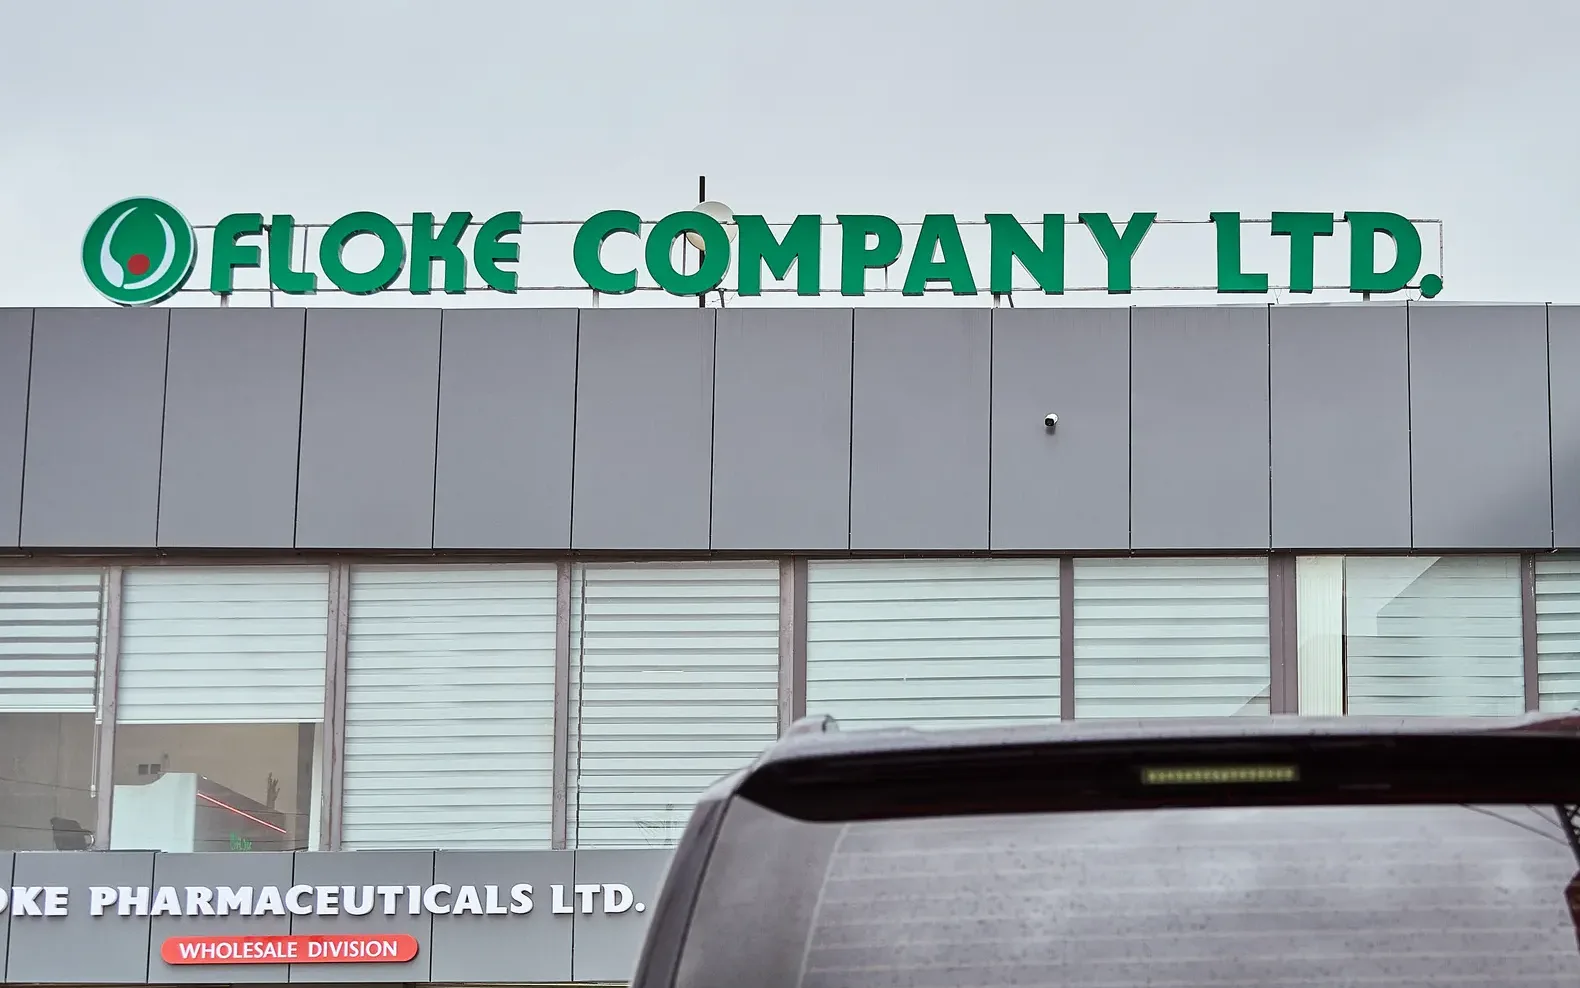
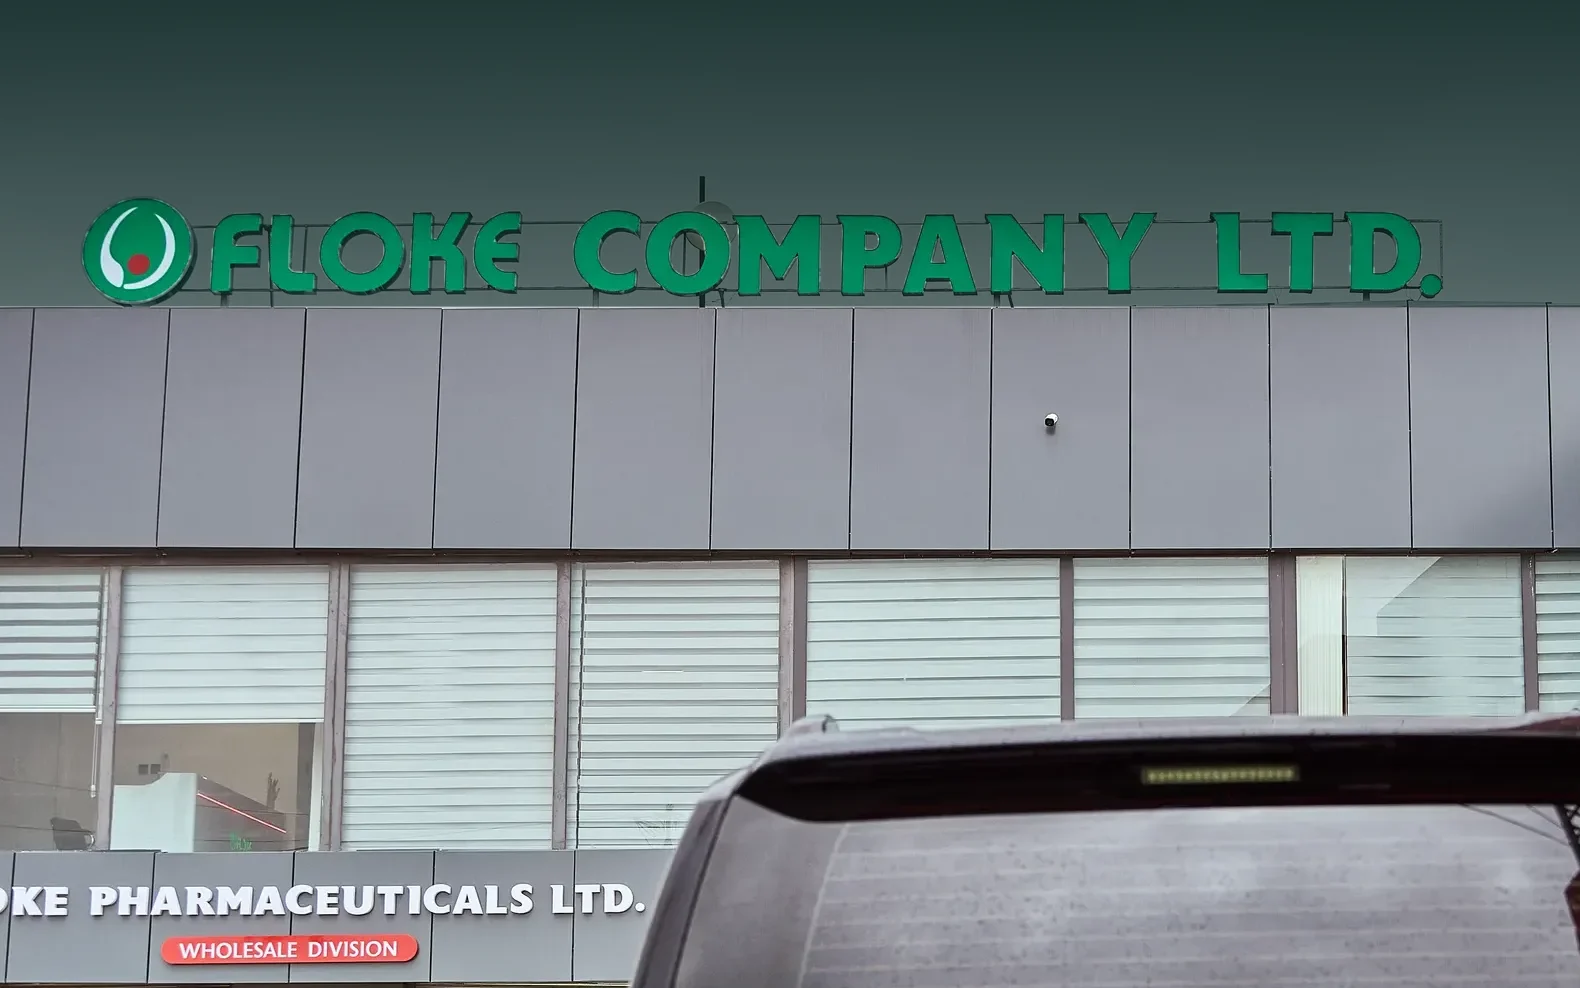
Hero: TE7 ultrasound cut-out, old-site button colours, building blended in
- Hero visual: the Mindray TE7 ultrasound, cut out of its white background
  with a soft matte (no hard edges), floating on the hero over a soft brand
  glow; the cut-off wall-mount arm fades away. Replaces the defibrillator panel.
  Sized from screen height so the partner band stays on screen (1024 to 2560).
- Buttons as on the old site: vivid green Explore Solutions and red Contact Us.
  New cta green #15843E (old #1A9C4B deepened just enough for AA with white
  text) for primary buttons across the public site, and a red button variant.
- Building blends into the background: the photo's bright sky is toned into the
  deep brand green with the sign letters kept at full colour, plus a soft edge
  vignette and a lighter shade over the sign.

Claude-Session: https://claude.ai/code/session_01T2EB6aVSqW4Z5TaQQTowq3

Changed region(s): [[0.0, 0.0, 1.0, 0.334]]

diff --git a/src/components/home/hero.tsx b/src/components/home/hero.tsx
@@ -7,8 +7,8 @@ import { Button } from '@/components/ui/button';
 /**
  * Hero: the head office and its FLOKE sign in natural colour, shaded in deep brand green behind the
  * text. Left: the company line from flokefama.com and its two actions (Explore Solutions → shop,
- * Contact Us → contact). Right: a Mindray BeneHeart D3 defibrillator on a soft white stage, the kind
- * of equipment Flokefama supplies as Mindray's official distributor (from tablet up, so on phones
+ * Contact Us → contact). Right: a Mindray TE7 ultrasound system, cut out and floating on the hero, the
+ * kind of equipment Flokefama supplies as Mindray's official distributor (from tablet up, so on phones
  * the partner band still shows on the first screen).
  * Bottom band: Our Partners & Clientele, visible without scrolling.
  */
@@ -24,9 +24,11 @@ export function Hero() {
         <div className="absolute inset-0 lg:inset-auto lg:left-1/2 lg:top-[calc(104px_-_max(100vw,160svh)*0.1203)] lg:aspect-[1580/988] lg:w-[max(100vw,160svh)] lg:-translate-x-1/2 lg:[mask-image:linear-gradient(#000_78%,transparent)]">
           <Image src="/images/hero-brand.webp" alt="" fill priority sizes="max(100vw, 160svh)" className="object-cover object-[8%_0%] md:object-[50%_0%]" />
         </div>
+        {/* The building melts into the dark green background (the photo's sky is already toned to it): edges fall away into shade */}
+        <div className="absolute inset-0 bg-[radial-gradient(140%_110%_at_50%_20%,transparent_55%,rgb(6_32_30/0.7)_100%)]" />
         {/* Deep green-navy shade behind the text and the lower photo; on desktop the sign's band stays clear */}
         <div className="absolute inset-0 bg-[linear-gradient(90deg,rgb(6_32_30/0.9)_0%,rgb(6_32_30/0.72)_42%,rgb(6_32_30/0.28)_75%,rgb(6_32_30/0.18)_100%)] lg:[mask-image:linear-gradient(180deg,transparent_calc(96px_+_max(100vw,160svh)*0.076),#000_calc(176px_+_max(100vw,160svh)*0.076))]" />
-        <div className="absolute inset-0 bg-[linear-gradient(180deg,rgb(6_32_30/0.35)_0%,transparent_25%,transparent_45%,rgb(6_32_30/0.85)_80%,rgb(6_32_30/0.95)_100%)] lg:bg-[linear-gradient(180deg,rgb(6_32_30/0.82)_0px,rgb(6_32_30/0.45)_80px,transparent_112px,transparent_45%,rgb(6_32_30/0.85)_80%,rgb(6_32_30/0.95)_100%)]" />
+        <div className="absolute inset-0 bg-[linear-gradient(180deg,rgb(6_32_30/0.35)_0%,transparent_25%,transparent_45%,rgb(6_32_30/0.85)_80%,rgb(6_32_30/0.95)_100%)] lg:bg-[linear-gradient(180deg,rgb(6_32_30/0.6)_0px,rgb(6_32_30/0.25)_88px,transparent_104px,rgb(6_32_30/0.12)_30%,rgb(6_32_30/0.3)_45%,rgb(6_32_30/0.85)_78%,rgb(6_32_30/0.97)_100%)]" />
       </div>
 
       <div className="mx-auto grid w-full max-w-[1280px] flex-1 grid-cols-1 items-center gap-8 px-5 pb-10 pt-28 md:gap-12 md:px-10 md:pt-32 lg:grid-cols-12 lg:items-start lg:gap-16 lg:pb-8 lg:pt-[calc(126px_+_max(100vw,160svh)*0.076)]">
@@ -45,21 +47,18 @@ export function Hero() {
             <Button asChild size="lg">
               <Link href="/products">Explore Solutions</Link>
             </Button>
-            <Button asChild variant="glass" size="lg">
+            <Button asChild variant="red" size="lg">
               <Link href="/contact">Contact Us</Link>
             </Button>
           </Reveal>
         </div>
         <Reveal delay={0.2} y={40} className="relative hidden sm:block lg:col-span-5">
-          <figure className="relative mx-auto w-full max-w-[300px] sm:max-w-[400px] lg:max-w-[min(480px,52svh)]">
-            {/* Soft green light behind the stage, so it sits in the scene rather than on top of it */}
-            <div aria-hidden className="absolute -inset-10 rounded-full bg-[radial-gradient(circle,rgb(52_161_116/0.28),transparent_65%)] blur-2xl" />
-            <div className="relative overflow-hidden rounded-[2rem] bg-[radial-gradient(circle_at_50%_42%,#ffffff_45%,#e8eef0_100%)] p-5 shadow-[0_40px_90px_-30px_rgb(0_0_0/0.65)] ring-1 ring-white/30 md:p-7">
-              {/* The photo's white background melts into the stage (multiply) */}
-              <Image src="/images/hero-defibrillator.webp" alt="Mindray BeneHeart D3 defibrillator and patient monitor" width={1068} height={893} priority sizes="(min-width: 1024px) 440px, 360px" className="relative h-auto w-full mix-blend-multiply" />
-            </div>
-            <figcaption className="absolute -bottom-5 left-1/2 flex -translate-x-1/2 items-center gap-2 whitespace-nowrap rounded-full bg-brand-800 px-4 py-2 text-[13px] font-medium text-white shadow-[0_12px_30px_-10px_rgb(0_0_0/0.5)] ring-1 ring-white/15">
-              <span className="size-2 rounded-full bg-brand-300" aria-hidden />
+          <figure className="relative mx-auto w-full max-w-[250px] sm:max-w-[320px] lg:max-w-[min(360px,calc(48svh_-_128px))]">
+            {/* Soft brand light behind the device, so it sits in the scene */}
+            <div aria-hidden className="absolute -inset-x-16 -inset-y-8 rounded-full bg-[radial-gradient(closest-side,rgb(52_161_116/0.32),rgb(47_128_183/0.12)_55%,transparent)] blur-2xl" />
+            <Image src="/images/hero-ultrasound.webp" alt="Mindray TE7 ultrasound system" width={718} height={954} priority sizes="(min-width: 1024px) 360px, 320px" className="relative h-auto w-full drop-shadow-[0_30px_45px_rgb(0_0_0/0.45)]" />
+            <figcaption className="relative mt-1 flex items-center justify-center gap-2 whitespace-nowrap text-[13px] font-medium text-white/80">
+              <span className="size-1.5 rounded-full bg-signal" aria-hidden />
               Official Mindray distributor in Ghana
             </figcaption>
           </figure>

diff --git a/src/components/auth/register-form.tsx b/src/components/auth/register-form.tsx
@@ -76,7 +76,7 @@ export function RegisterForm({ onSignIn }: { onSignIn: () => void }) {
       <button
         type="submit"
         disabled={pending}
-        className="!mt-6 flex h-12 w-full items-center justify-center gap-2 rounded-xl bg-brand-600 text-[15px] font-medium text-white transition hover:bg-brand-700 disabled:opacity-60"
+        className="!mt-6 flex h-12 w-full items-center justify-center gap-2 rounded-xl bg-cta text-[15px] font-medium text-white transition hover:bg-cta-700 disabled:opacity-60"
       >
         {pending ? 'Sending…' : 'Create account'} 
       </button>
@@ -132,7 +132,7 @@ function Requested({ delivered, data, onSignIn }: NonNullable<Result> & { onSign
             Your registration is ready. Send it to {contact.support} by email or on WhatsApp. Everything is filled in.
           </p>
           <div className="mt-5 grid gap-2 sm:grid-cols-2">
-            <a href={send.email} className="inline-flex h-12 items-center justify-center gap-2 rounded-xl bg-brand-600 px-5 text-[15px] font-medium text-white transition hover:bg-brand-700">
+            <a href={send.email} className="inline-flex h-12 items-center justify-center gap-2 rounded-xl bg-cta px-5 text-[15px] font-medium text-white transition hover:bg-cta-700">
               <Icon name="fi-rr-envelope" /> Send by email
             </a>
             <a href={send.whatsapp} target="_blank" rel="noopener noreferrer" className="inline-flex h-12 items-center justify-center gap-2 rounded-xl border border-line bg-paper px-5 text-[15px] font-medium text-ink transition hover:border-ink/30">

diff --git a/src/components/contact/contact-form.tsx b/src/components/contact/contact-form.tsx
@@ -74,7 +74,7 @@ export function ContactForm() {
       <button
         type="submit"
         disabled={pending}
-        className="inline-flex h-12 items-center justify-center gap-2 rounded-xl bg-brand-600 px-6 text-[15px] font-medium text-white transition hover:bg-brand-700 disabled:opacity-60"
+        className="inline-flex h-12 items-center justify-center gap-2 rounded-xl bg-cta px-6 text-[15px] font-medium text-white transition hover:bg-cta-700 disabled:opacity-60"
       >
         {pending ? 'Sending…' : 'Send message'}
       </button>
@@ -116,7 +116,7 @@ function Sent({ delivered, data, onReset }: NonNullable<Result> & { onReset: () 
           <p className="mt-5 text-2xl font-bold tracking-[-0.02em] text-ink">One last step.</p>
           <p className="mt-2 text-ink-3">Your message is ready. Send it by email to {t.inbox} or on WhatsApp. Everything is filled in.</p>
           <div className="mt-5 flex flex-wrap gap-3">
-            <a href={send.email} className="inline-flex h-12 items-center gap-2 rounded-xl bg-brand-600 px-5 text-[15px] font-medium text-white transition hover:bg-brand-700">
+            <a href={send.email} className="inline-flex h-12 items-center gap-2 rounded-xl bg-cta px-5 text-[15px] font-medium text-white transition hover:bg-cta-700">
               <Icon name="fi-rr-envelope" /> Send by email
             </a>
             <a href={send.whatsapp} target="_blank" rel="noopener noreferrer" className="inline-flex h-12 items-center gap-2 rounded-xl border border-line px-5 text-[15px] font-medium text-ink transition hover:border-ink/30">

diff --git a/src/app/globals.css b/src/app/globals.css
@@ -2,11 +2,11 @@
 
 /* ==========================================================================
    Flokefama colour system (pharmaceutical distribution)
-   Green        #007A4D / #004D3B · the brand: primary actions, highlights, brand surfaces
+   Green        #007A4D / #004D3B · the brand: highlights, brand surfaces; buttons in vivid #15843E
    Charcoal navy #17313A          · text and dark surfaces
    Off-white / cool gray          · backgrounds and panels
    Medical blue #2F80B7           · information accents: section labels, the Aim block
-   Red          #E3262E           · tiny doses only: the logo dot, cart count, alerts and errors
+   Red          #E3262E           · the Vision block, the logo-dot accents, the hero's Contact Us, alerts
    ========================================================================== */
 @theme {
   /* Two typefaces: Poppins for text, Geist Sans for labels, numerals and accents (the `font-mono` utility). */
@@ -35,6 +35,10 @@
   --color-brand-600: #007a4d;
   --color-brand-700: #006140;
   --color-brand-800: #004d3b;
+
+  /* Button green: the old site's vivid #1A9C4B, deepened just enough for AA contrast with white text */
+  --color-cta: #15843e;
+  --color-cta-700: #0f6b32;
 
   --color-surgical: #34a174;
   --color-signal: #e3262e; /* Flokefama red: small highlights and CTAs */

diff --git a/src/components/ui/button.tsx b/src/components/ui/button.tsx
@@ -8,10 +8,9 @@ export const buttonVariants = cva(
   {
     variants: {
       variant: {
-        primary:
-          'bg-brand-600 text-white hover:bg-brand-700 hover:-translate-y-0.5',
-        glow:
-          'bg-brand-600 text-white hover:bg-brand-700 hover:-translate-y-0.5',
+        primary: 'bg-cta text-white hover:bg-cta-700 hover:-translate-y-0.5',
+        glow: 'bg-cta text-white hover:bg-cta-700 hover:-translate-y-0.5',
+        red: 'bg-signal text-white hover:bg-signal-700 hover:-translate-y-0.5',
         glass: 'glass text-white hover:bg-white/10 hover:-translate-y-0.5',
         outline: 'border border-line bg-paper text-ink hover:border-ink/30 hover:-translate-y-0.5',
         ghost: 'text-ink hover:bg-mist',

diff --git a/src/components/layout/Navbar.tsx b/src/components/layout/Navbar.tsx
@@ -187,7 +187,7 @@ export function Navbar() {
           {/* CTA Button: padding 12px 24px, brand green, radius 12px */}
           <Link
             href="/portal"
-            className="group hidden items-center gap-2 whitespace-nowrap rounded-xl bg-brand-600 px-4 py-3 text-[13px] font-medium text-white 2xl:px-6 2xl:text-sm transition hover:bg-brand-700 sm:inline-flex"
+            className="group hidden items-center gap-2 whitespace-nowrap rounded-xl bg-cta px-4 py-3 text-[13px] font-medium text-white 2xl:px-6 2xl:text-sm transition hover:bg-cta-700 sm:inline-flex"
           >
             <span className="hidden 2xl:inline">Client Portal Access</span><span className="2xl:hidden">Client Portal</span>
           </Link>

diff --git a/src/components/products/buying-faq.tsx b/src/components/products/buying-faq.tsx
@@ -74,7 +74,7 @@ export function BuyingFaq() {
                 </a>
               </li>
             </ul>
-            <Link href="/quote" className="flex items-center justify-center gap-2 bg-brand-600 px-5 py-3.5 text-sm font-medium transition hover:bg-brand-700">
+            <Link href="/quote" className="flex items-center justify-center gap-2 bg-cta px-5 py-3.5 text-sm font-medium transition hover:bg-cta-700">
               Order now
             </Link>
           </div>
